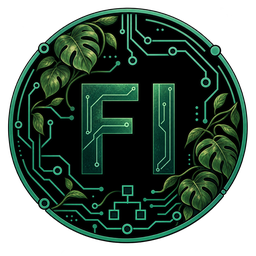
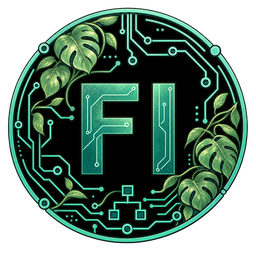
The jade accent stops looking like income, savings and success
A design pass over the new colours found the jade accent too close to the
greens around it:

- Savings ("Sparen") was ΔE 2.9 from the accent, and the money flow draws it
  right beside "left over" in the accent. Savings is violet now.
- The total balance and the cumulative and forecast lines were drawn in the
  accent and read as income. They use a new `--figure` token: ink.
- "Good" and "info" pills differed by text hue only. "Good" gets a yellower
  pastel, and the info banner a neutral ground with the accent edge instead of
  a jade box that read as a success message.
- Quick add's "guess" button kept a text colour tuned for cyan (3.4:1 on
  jade); it uses a new `--on-accent`. Its income figure keeps its light green.
- The dark theme's primary button text was 3.3:1; it is white now (5.8:1).

The app logo and the touch icon are brightened for small sizes, where the
dark letters on black turned into a blur; the README logo and the large icons
keep the artwork as drawn.

Also: the forecast chart's y-axis labels were clipped to "0.000 €" and now get
the monthly charts' gutter, and the demo seeder sets the opening balance on
the year the bookings already created instead of failing with a 409.

diff --git a/frontend/src/styles/tokens.css b/frontend/src/styles/tokens.css
@@ -57,7 +57,13 @@
   --accent:var(--jade-600);
   --accent-bright:var(--jade-500);
   --accent-soft:var(--jade-050);
+  --on-accent:#ffffff;
   --focus-ring:color-mix(in srgb, var(--jade-500) 45%, transparent);
+  /* A figure or line that is ABOUT the money rather than a direction of it: the
+     total balance, a cumulative line. It used to borrow the cyan accent, which
+     stood apart from the greens; the jade accent does not, and a balance drawn
+     in it reads as income. Ink does not. */
+  --figure:var(--anthrazit-700);
 
   /* ── finance semantics ──────────────────────────────────────────────────────
      Green for money in, red for money out — the convention every bank statement
@@ -78,11 +84,13 @@
   --type-einkommen:#1f8aa6;       --type-einkommen-soft:#dcf0f5;
   --type-fixkosten:#3d5a8a;       --type-fixkosten-soft:#e2e8f3;
   --type-variabel:#c0673c;        --type-variabel-soft:#fae8dd;
-  --type-sparen:#2e7d5b;          --type-sparen-soft:#ddf0e7;
+  /* Violet, not green: the accent, income, "good" and the button are all green
+     now, and the money flow draws savings right beside "left over" (accent). */
+  --type-sparen:#6a4d99;          --type-sparen-soft:#ede7f6;
   --type-sonstiges:#7a8288;       --type-sonstiges-soft:#e9eced;
 
   /* ── feedback ───────────────────────────────────────────────────────────── */
-  --good:var(--leaf-600); --good-soft:#e3f3e2;
+  --good:var(--leaf-600); --good-soft:#edf3dc;
   --warn:var(--amber-600); --warn-soft:var(--amber-050);
   --danger:#b23b2b; --danger-soft:#fbe7e3;
   --info:var(--accent); --info-soft:var(--accent-soft);
@@ -120,9 +128,9 @@
   --primary:var(--forest-500);
   --primary-hover:var(--forest-400);
   --primary-soft:#16302a;
-  --on-primary:#06120e;
+  --on-primary:#ffffff;
   --accent:var(--jade-400);
-  --accent-soft:#0f3326;
+  --accent-soft:#0f3326;  --on-accent:#04140d;  --figure:var(--anthrazit-100);
   --focus-ring:color-mix(in srgb, var(--jade-400) 55%, transparent);
 
   /* Not the forest ramp any more: that moved toward the jade accent, and money in
@@ -137,10 +145,10 @@
   --type-einkommen:#4fb8d4; --type-einkommen-soft:#10313b;
   --type-fixkosten:#7c98ce; --type-fixkosten-soft:#1a2338;
   --type-variabel:#e0956b;  --type-variabel-soft:#37231a;
-  --type-sparen:#57b187;    --type-sparen-soft:#12301f;
+  --type-sparen:#b39ddf;    --type-sparen-soft:#272038;
   --type-sonstiges:#a8b0b6; --type-sonstiges-soft:#282e32;
 
-  --good:var(--leaf-400); --good-soft:#133012;
+  --good:var(--leaf-400); --good-soft:#1d2c10;
   --warn:var(--amber-400); --warn-soft:#332703;
   --danger:#e58c7c; --danger-soft:#3a201c;
   --info:var(--accent); --info-soft:var(--accent-soft);
@@ -166,9 +174,9 @@
     --primary:var(--forest-500);
     --primary-hover:var(--forest-400);
     --primary-soft:#16302a;
-    --on-primary:#06120e;
+    --on-primary:#ffffff;
     --accent:var(--jade-400);
-    --accent-soft:#0f3326;
+    --accent-soft:#0f3326;  --on-accent:#04140d;  --figure:var(--anthrazit-100);
     --focus-ring:color-mix(in srgb, var(--jade-400) 55%, transparent);
     --income:#5bb877; --income-soft:#10301c;
     --expense:var(--red-300); --expense-soft:#3a1a16;
@@ -179,9 +187,9 @@
     --type-einkommen:#4fb8d4; --type-einkommen-soft:#10313b;
     --type-fixkosten:#7c98ce; --type-fixkosten-soft:#1a2338;
     --type-variabel:#e0956b;  --type-variabel-soft:#37231a;
-    --type-sparen:#57b187;    --type-sparen-soft:#12301f;
+    --type-sparen:#b39ddf;    --type-sparen-soft:#272038;
     --type-sonstiges:#a8b0b6; --type-sonstiges-soft:#282e32;
-    --good:var(--leaf-400); --good-soft:#133012;
+    --good:var(--leaf-400); --good-soft:#1d2c10;
     --warn:var(--amber-400); --warn-soft:#332703;
     --danger:#e58c7c; --danger-soft:#3a201c;
     --shadow-1:0 1px 2px rgba(0,0,0,.45);

diff --git a/frontend/src/features/dashboard/ForecastPanel.tsx b/frontend/src/features/dashboard/ForecastPanel.tsx
@@ -9,10 +9,13 @@ import { api, asList } from '../../lib/api';
 import { formatEuro, formatEuroCompact, monthShort } from '../../lib/format';
 import { useT } from '../../lib/i18n';
 import { useMaskAmount } from '../../lib/privacy';
+import { useNarrow } from '../../lib/useNarrow';
 import { qk } from '../../lib/queryKeys';
 import type { Forecast, ForecastBasisRow, ForecastMonth } from '../../lib/types';
 
-const LEFT = 58;
+/* The monthly charts' gutter, for the same reason: a closing balance is a
+   yearly-sized figure ("12.000 €"), and 58 units clipped it to "0.000 €". */
+const LEFT = { wide: 76, narrow: 118 };
 const RIGHT = 710;
 const TOP = 12;
 
@@ -28,6 +31,7 @@ const TOP = 12;
 export function ForecastPanel({ year }: { year: number }) {
   const t = useT();
   const maskAmount = useMaskAmount();
+  const left = LEFT[useNarrow() ? 'narrow' : 'wide'];
 
   const query = useQuery({
     queryKey: qk.derived.forecast(year),
@@ -58,7 +62,7 @@ export function ForecastPanel({ year }: { year: number }) {
     TOP,
     bottom,
   );
-  const band = bands(months.length, LEFT, RIGHT);
+  const band = bands(months.length, left, RIGHT);
 
   const actual = months.filter((m) => !m.isProjected);
   const projected = months.filter((m) => m.isProjected);
@@ -163,7 +167,7 @@ export function ForecastPanel({ year }: { year: number }) {
         <Gridlines
           ticks={scale.ticks}
           y={scale.y}
-          left={LEFT}
+          left={left}
           right={RIGHT}
           format={formatEuroCompact}
         />

diff --git a/frontend/src/styles/data.css b/frontend/src/styles/data.css
@@ -39,7 +39,7 @@
 .kpi__value { display: block; font-size: 1.4rem; font-weight: 700; letter-spacing: -0.02em; }
 .kpi__scope { font-size: .68rem; color: var(--muted); margin-top: .2rem; }
 .kpi--warn { border-color: var(--uncategorized); background: var(--uncategorized-soft); }
-.kpi--accent .kpi__value { color: var(--accent); }
+.kpi--accent .kpi__value { color: var(--figure); }
 
 /* ── tables ─────────────────────────────────────────────────────────────── */
 .table-wrap { overflow-x: auto; }
@@ -67,7 +67,9 @@
   padding: .7rem .85rem; border-radius: var(--r-md); font-size: .85rem;
   border: 1px solid; margin-bottom: 1rem;
 }
-.banner--info { background: var(--info-soft); border-color: var(--accent); color: var(--ink); }
+/* A neutral ground with the accent edge: a jade box on a jade ground read as a
+   success message. */
+.banner--info { background: var(--surface-2); border-color: var(--accent); color: var(--ink); }
 .banner--warn { background: var(--warn-soft); border-color: var(--warn); color: var(--ink); }
 .banner--danger { background: var(--danger-soft); border-color: var(--danger); color: var(--ink); }
 .banner strong { display: block; }

diff --git a/frontend/src/styles/quickadd.css b/frontend/src/styles/quickadd.css
@@ -24,7 +24,9 @@
 }
 .amount-display { font-size: clamp(2.4rem, 12vw, 3.4rem); font-weight: 700; letter-spacing: -0.03em; }
 .amount-display--expense  { color: var(--red-300); }
-.amount-display--income   { color: var(--forest-300); }
+/* Literal, like the red beside it: this screen is dark in both themes, so the
+   light theme's --income would be dark green on near-black. */
+.amount-display--income   { color: #5bb877; }
 .amount-display--transfer { color: #a3a7d6; }
 .quick__meta { font-size: .8rem; color: var(--on-inverse-muted); }
 
@@ -112,7 +114,7 @@
 }
 /* Three distinct states, so the resolved category is visible BEFORE committing. */
 .quick__confirm--rule    { background: var(--primary); color: var(--on-primary); }
-.quick__confirm--guess   { background: var(--accent); color: #06202a; }
+.quick__confirm--guess   { background: var(--accent); color: var(--on-accent); }
 .quick__confirm--unknown { background: var(--warn); color: #1a1400; }
 .quick__confirm:disabled { background: rgba(255,255,255,.12); color: var(--on-inverse-muted); }
 

diff --git a/frontend/src/styles/charts.css b/frontend/src/styles/charts.css
@@ -30,8 +30,8 @@
 .chart__bar--sparen    { fill: var(--type-sparen); }
 .chart__bar--sonstiges { fill: var(--type-sonstiges); }
 
-.chart__line { fill: none; stroke: var(--accent); stroke-width: 2; stroke-linejoin: round; }
-.chart__dot { fill: var(--accent); }
+.chart__line { fill: none; stroke: var(--figure); stroke-width: 2; stroke-linejoin: round; }
+.chart__dot { fill: var(--figure); }
 
 /* The default: present to a screen reader, absent to the eye. */
 .chart__data {

diff --git a/docs/seed-demo.py b/docs/seed-demo.py
@@ -97,7 +97,9 @@ for m, c, a in [(7, "Wochenmarkt", 2340), (8, "Flohmarkt", 1800), (9, "Trödella
     call("/bookings", {"year": 2026, "month": m, "kind": "expense",
                        "amountCents": a, "comment": c}, cookie=cookie); n += 1
 
-call("/years", {"year": 2026, "openingBalanceCents": 1284350}, cookie=cookie)
+# The first booking already created 2026 (as derived), so POST would be a 409:
+# the opening balance is set on the existing year.
+call("/years/2026", {"openingBalanceCents": 1284350}, cookie=cookie, method="PUT")
 d = call("/dashboard?year=2026", cookie=cookie)[1]
 print(f"{n} invented bookings · Bilanz {d['balanceCents']/100:.2f} · ohne Kategorie {d['uncategorizedCount']}")
 open('/tmp/demo-cookie.txt','w').write(cookie)

diff --git a/README.md b/README.md
@@ -81,7 +81,7 @@ always render de-DE.
 | | |
 |:--:|:--:|
 | <a href="docs/screenshots/dashboard.png"><img src="docs/screenshots/dashboard.png" alt="Dashboard"></a> | <a href="docs/screenshots/monate.png"><img src="docs/screenshots/monate.png" alt="Months"></a> |
-| **Dashboard** — savings paid in, beside income kept | **Months** — what each month came to, and where it left the balance |
+| **Dashboard** — the year so far, and where it is heading | **Months** — what each month came to, and where it left the balance |
 | <a href="docs/screenshots/auswertung.png"><img src="docs/screenshots/auswertung.png" alt="Analysis"></a> | <a href="docs/screenshots/buchungen.png"><img src="docs/screenshots/buchungen.png" alt="Bookings"></a> |
 | **Analysis** — any category or comment across twelve months | **Bookings** — filter by year, text or category; edit in place |
 | <a href="docs/screenshots/geldfluss.png"><img src="docs/screenshots/geldfluss.png" alt="Money flow"></a> | <a href="docs/screenshots/haushalt-fluss.png"><img src="docs/screenshots/haushalt-fluss.png" alt="Household money flow"></a> |
